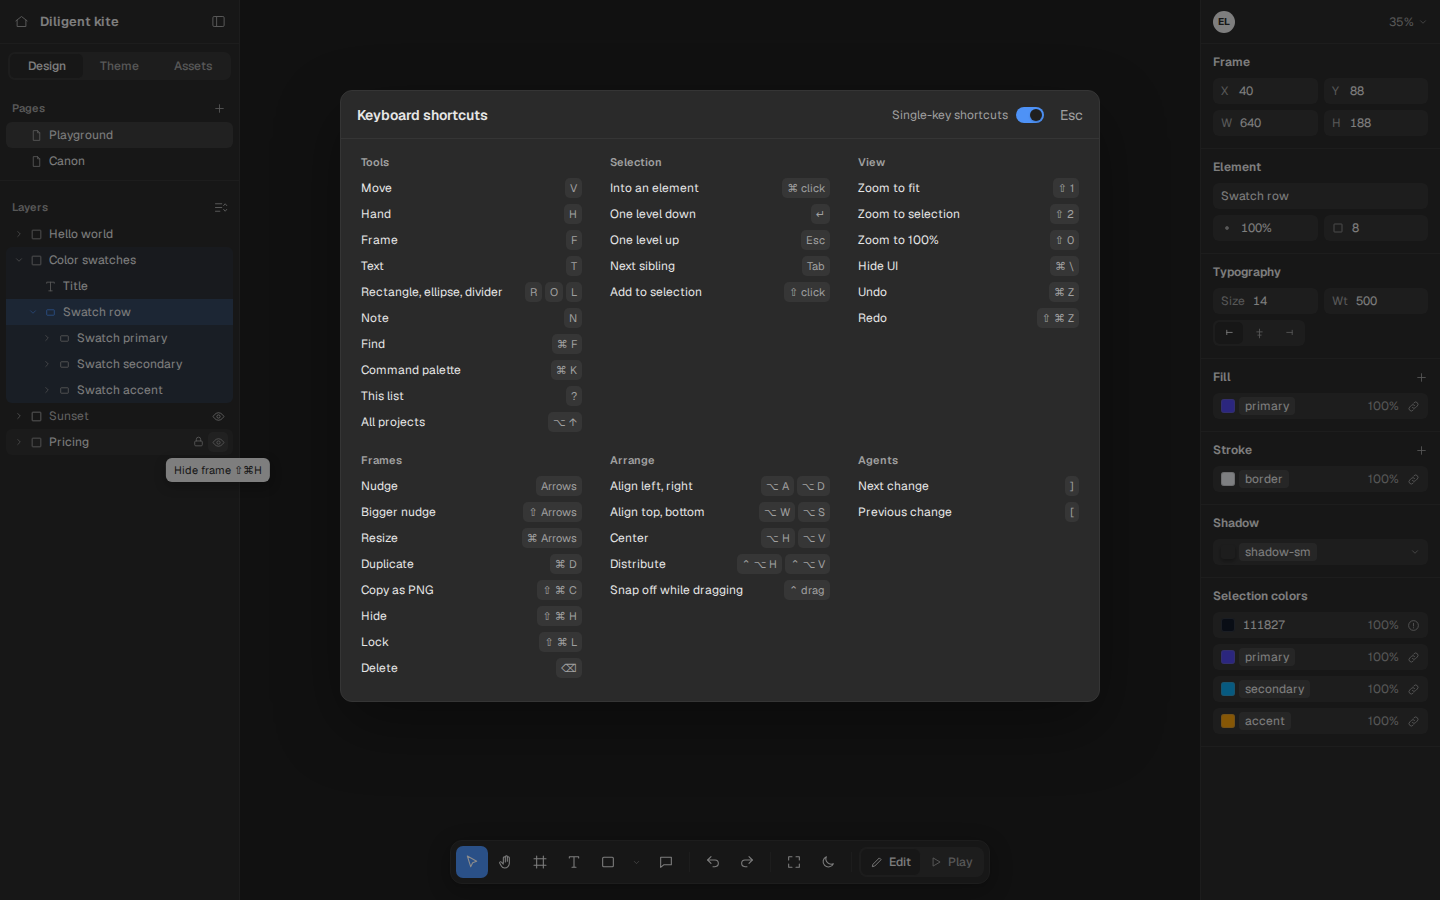
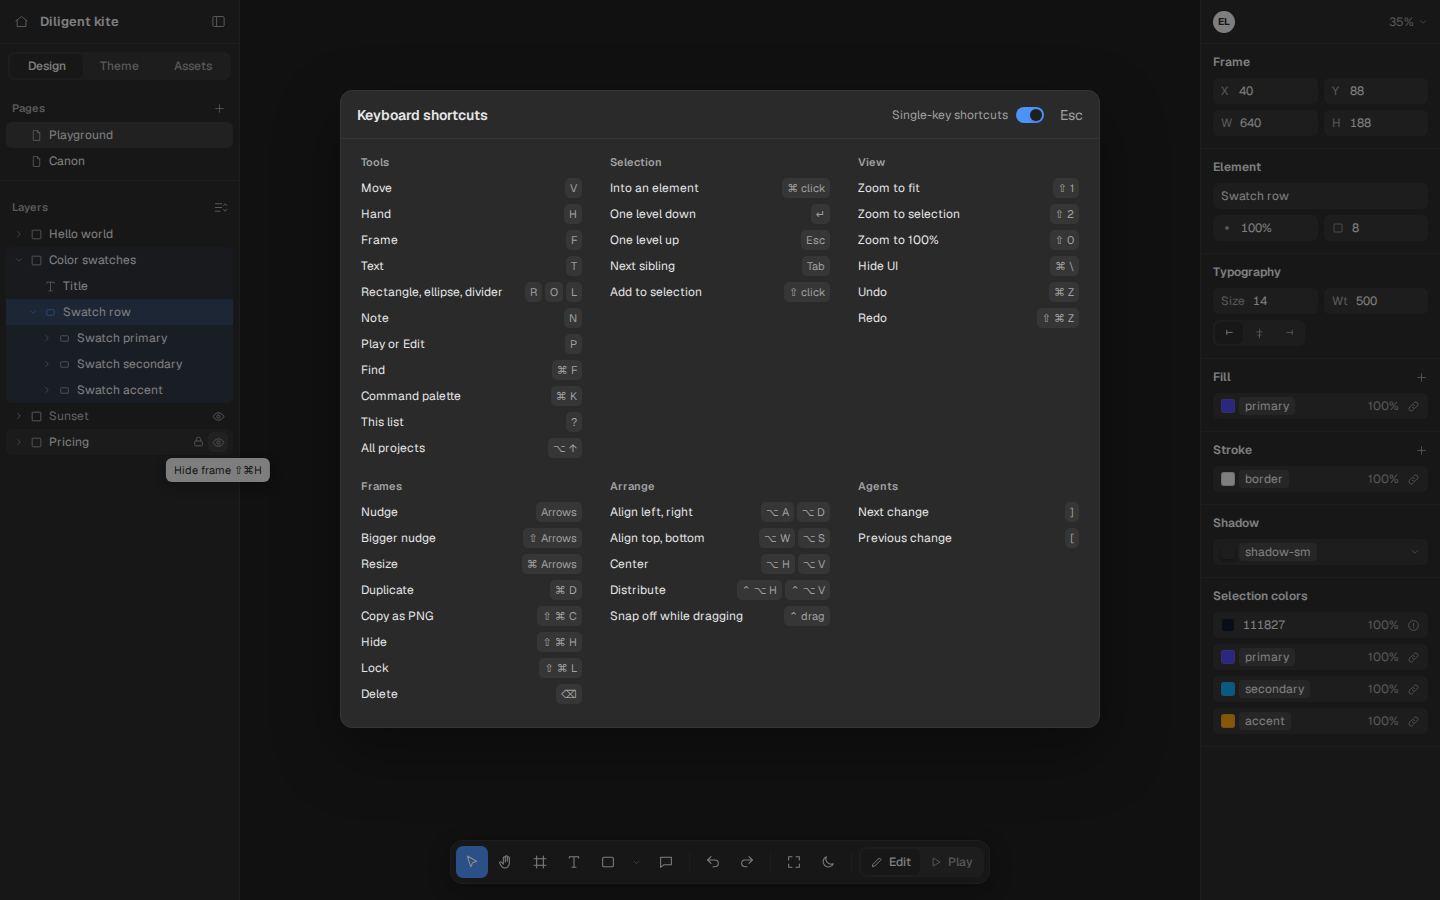
docs(design): draw the Play or Edit row on the shortcut sheet

diff --git a/canon/design/palette/shortcuts.html b/canon/design/palette/shortcuts.html
@@ -2430,6 +2430,9 @@
             <span>Note</span><span class="kbd"><span>N</span></span>
           </div>
           <div class="krow">
+            <span>Play or Edit</span><span class="kbd"><span>P</span></span>
+          </div>
+          <div class="krow">
             <span>Find</span><span class="kbd"><span>⌘ F</span></span>
           </div>
           <div class="krow">
